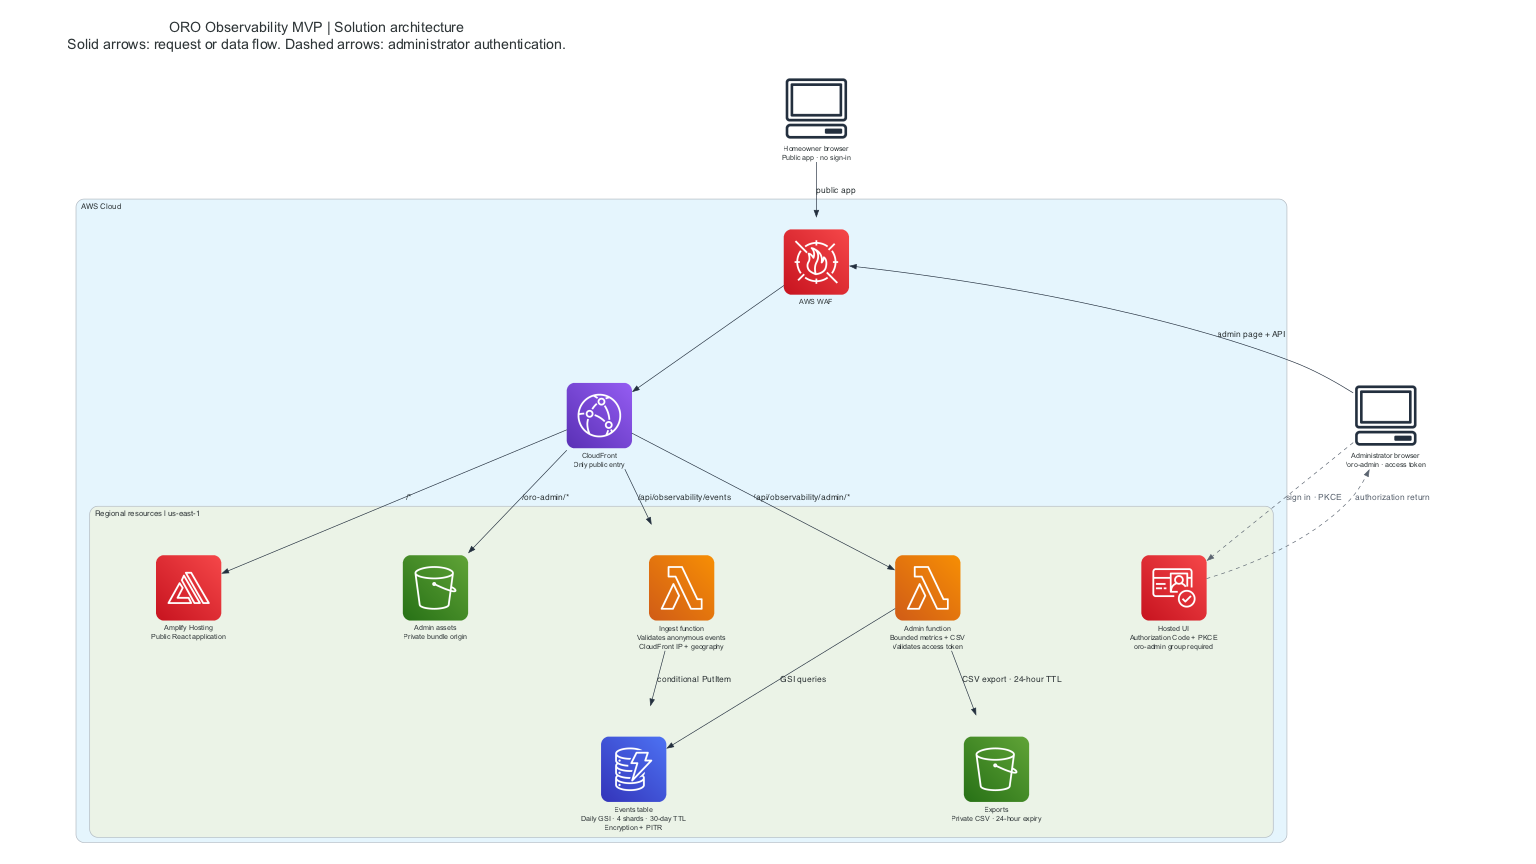
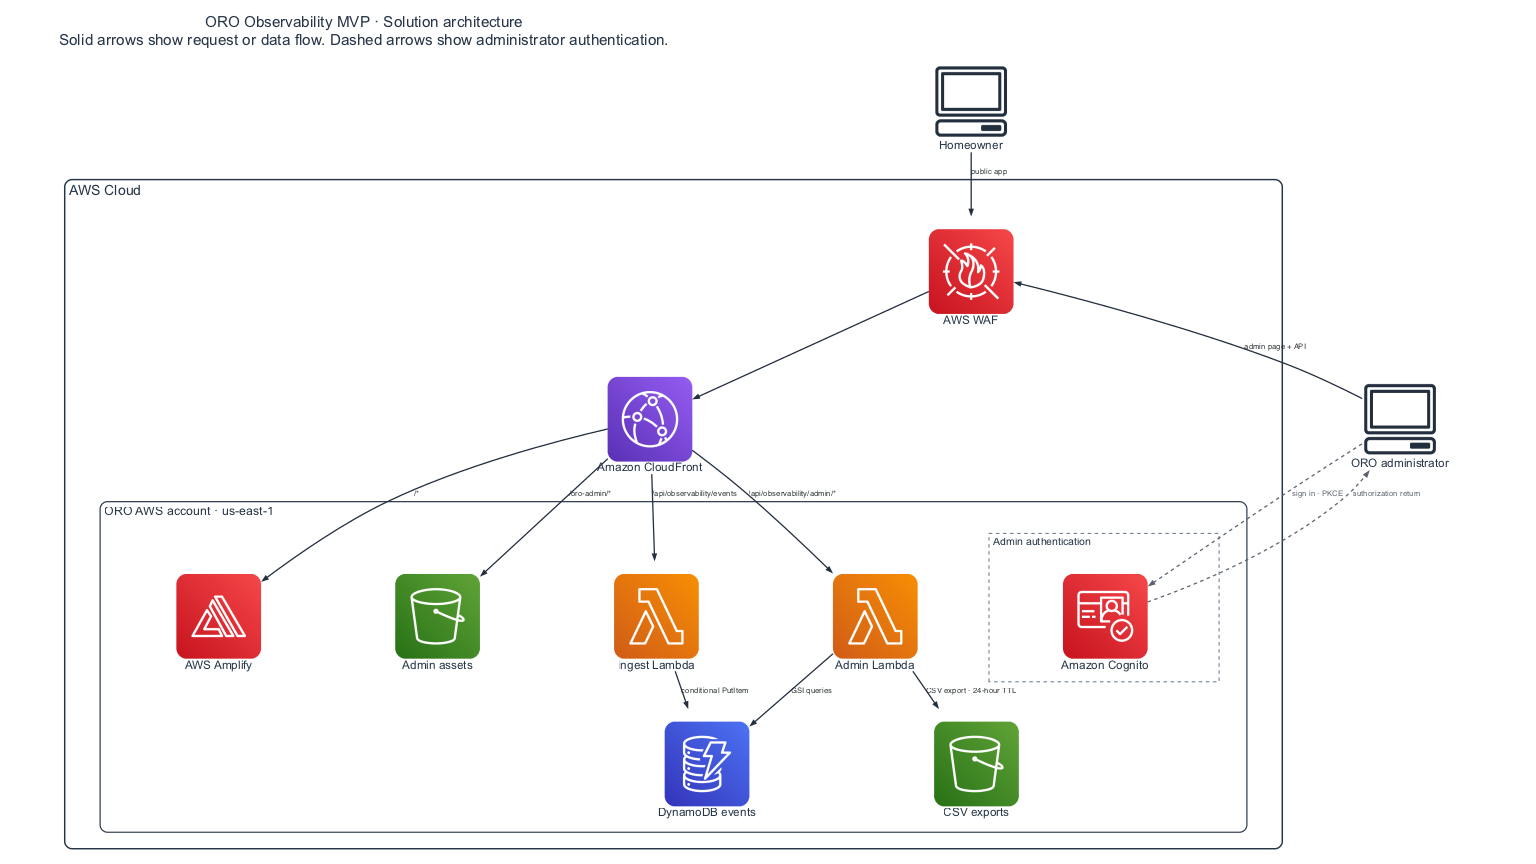
docs: improve architecture diagram readability

diff --git a/docs/diagrams/oro_observability_architecture.py b/docs/diagrams/oro_observability_architecture.py
@@ -14,6 +14,38 @@ from diagrams.onprem.client import Client
 from PIL import Image
 
 
+class LargeClient(Client):
+    _height = 2.4
+
+
+class LargeWAF(WAF):
+    _height = 2.6
+
+
+class LargeCloudFront(CloudFront):
+    _height = 2.6
+
+
+class LargeCognito(Cognito):
+    _height = 2.6
+
+
+class LargeAmplify(Amplify):
+    _height = 2.6
+
+
+class LargeS3(S3):
+    _height = 2.6
+
+
+class LargeLambda(Lambda):
+    _height = 2.6
+
+
+class LargeDynamodb(Dynamodb):
+    _height = 2.6
+
+
 REPOSITORY_ROOT = Path(__file__).resolve().parents[2]
 OUTPUT_IMAGE = REPOSITORY_ROOT / "docs" / "images" / "oro-observability-architecture.png"
 RAW_OUTPUT = OUTPUT_IMAGE.with_name(".oro-observability-architecture-render")
@@ -22,36 +54,81 @@ RAW_IMAGE = RAW_OUTPUT.with_suffix(".png")
 GRAPH_ATTRIBUTES = {
     "size": "16,9!",
     "ratio": "fill",
-    "pad": "0.35",
-    "nodesep": "0.6",
-    "ranksep": "1.0",
+    "pad": "0.25",
+    "nodesep": "0.4",
+    "ranksep": "0.7",
     "splines": "spline",
     "fontname": "Arial",
-    "fontsize": "22",
+    "fontsize": "26",
+    "fontcolor": "#253547",
     "labelloc": "t",
     "labeljust": "l",
     "label": (
-        "ORO Observability MVP | Solution architecture\\n"
-        "Solid arrows: request or data flow. Dashed arrows: administrator authentication."
+        "ORO Observability MVP · Solution architecture\\n"
+        "Solid arrows show request or data flow. Dashed arrows show administrator authentication."
     ),
 }
 
 NODE_ATTRIBUTES = {
     "fontname": "Arial",
-    "fontsize": "11",
+    "fontsize": "20",
+    "fontcolor": "#253547",
+    "width": "1.9",
+    "imagescale": "true",
 }
 
 EDGE_ATTRIBUTES = {
     "fontname": "Arial",
-    "fontsize": "10",
+    "fontsize": "15",
     "color": "#232F3E",
     "fontcolor": "#232F3E",
+    "penwidth": "2.2",
+    "arrowsize": "0.9",
 }
 
 AUTH_EDGE = {
     "style": "dashed",
     "color": "#5B6470",
     "fontcolor": "#5B6470",
+}
+
+AWS_CLOUD_ATTRIBUTES = {
+    "bgcolor": "#FFFFFF",
+    "pencolor": "#253547",
+    "penwidth": "2.5",
+    "fontsize": "24",
+    "fontname": "Arial",
+    "fontcolor": "#253547",
+    "margin": "28",
+}
+
+ACCOUNT_ATTRIBUTES = {
+    "bgcolor": "#FFFFFF",
+    "pencolor": "#253547",
+    "penwidth": "2",
+    "fontsize": "21",
+    "fontname": "Arial",
+    "fontcolor": "#253547",
+    "margin": "22",
+}
+
+AUTHENTICATION_ATTRIBUTES = {
+    "bgcolor": "#FFFFFF",
+    "pencolor": "#6B7C93",
+    "penwidth": "1.8",
+    "style": "dashed",
+    "fontsize": "18",
+    "fontname": "Arial",
+    "fontcolor": "#253547",
+    "margin": "18",
+}
+
+SERVICE_ATTRIBUTES = {
+    "width": "2.0",
+}
+
+CLIENT_ATTRIBUTES = {
+    "width": "1.8",
 }
 
 
@@ -65,21 +142,23 @@ with Diagram(
     node_attr=NODE_ATTRIBUTES,
     edge_attr=EDGE_ATTRIBUTES,
 ):
-    homeowner = Client("Homeowner browser\nPublic app · no sign-in")
-    administrator = Client("Administrator browser\n/oro-admin · access token")
+    homeowner = LargeClient("Homeowner", **CLIENT_ATTRIBUTES)
+    administrator = LargeClient("ORO administrator", **CLIENT_ATTRIBUTES)
 
-    with Cluster("AWS Cloud"):
-        waf = WAF("AWS WAF")
-        cloudfront = CloudFront("CloudFront\nOnly public entry")
+    with Cluster("AWS Cloud", graph_attr=AWS_CLOUD_ATTRIBUTES):
+        waf = LargeWAF("AWS WAF", **SERVICE_ATTRIBUTES)
+        cloudfront = LargeCloudFront("Amazon CloudFront", **SERVICE_ATTRIBUTES)
 
-        with Cluster("Regional resources | us-east-1"):
-            cognito = Cognito("Hosted UI\nAuthorization Code + PKCE\noro-admin group required")
-            amplify = Amplify("Amplify Hosting\nPublic React application")
-            admin_assets = S3("Admin assets\nPrivate bundle origin")
-            ingest = Lambda("Ingest function\nValidates anonymous events\nCloudFront IP + geography")
-            events = Dynamodb("Events table\nDaily GSI · 4 shards · 30-day TTL\nEncryption + PITR")
-            admin_api = Lambda("Admin function\nBounded metrics + CSV\nValidates access token")
-            exports = S3("Exports\nPrivate CSV · 24-hour expiry")
+        with Cluster("ORO AWS account · us-east-1", graph_attr=ACCOUNT_ATTRIBUTES):
+            with Cluster("Admin authentication", graph_attr=AUTHENTICATION_ATTRIBUTES):
+                cognito = LargeCognito("Amazon Cognito", **SERVICE_ATTRIBUTES)
+
+            amplify = LargeAmplify("AWS Amplify", **SERVICE_ATTRIBUTES)
+            admin_assets = LargeS3("Admin assets", **SERVICE_ATTRIBUTES)
+            ingest = LargeLambda("Ingest Lambda", **SERVICE_ATTRIBUTES)
+            events = LargeDynamodb("DynamoDB events", **SERVICE_ATTRIBUTES)
+            admin_api = LargeLambda("Admin Lambda", **SERVICE_ATTRIBUTES)
+            exports = LargeS3("CSV exports", **SERVICE_ATTRIBUTES)
 
     homeowner >> Edge(label="public app") >> waf
     administrator >> Edge(label="admin page + API") >> waf
